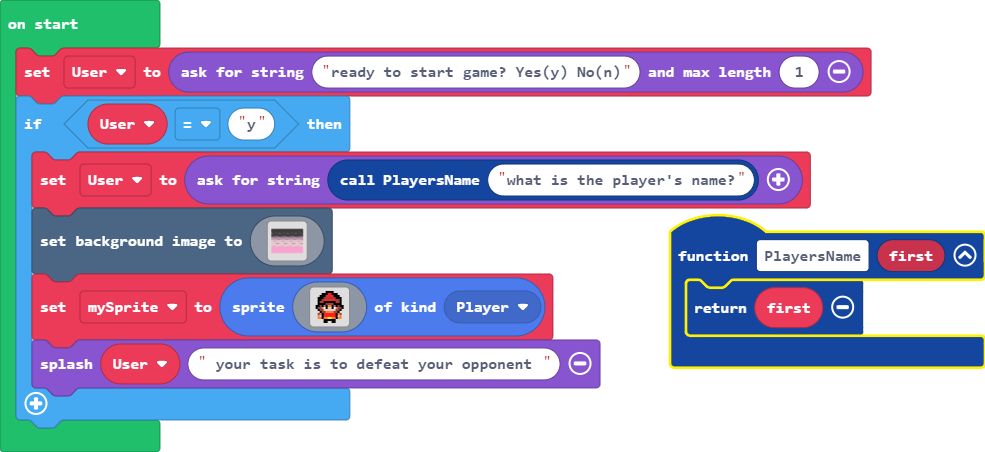
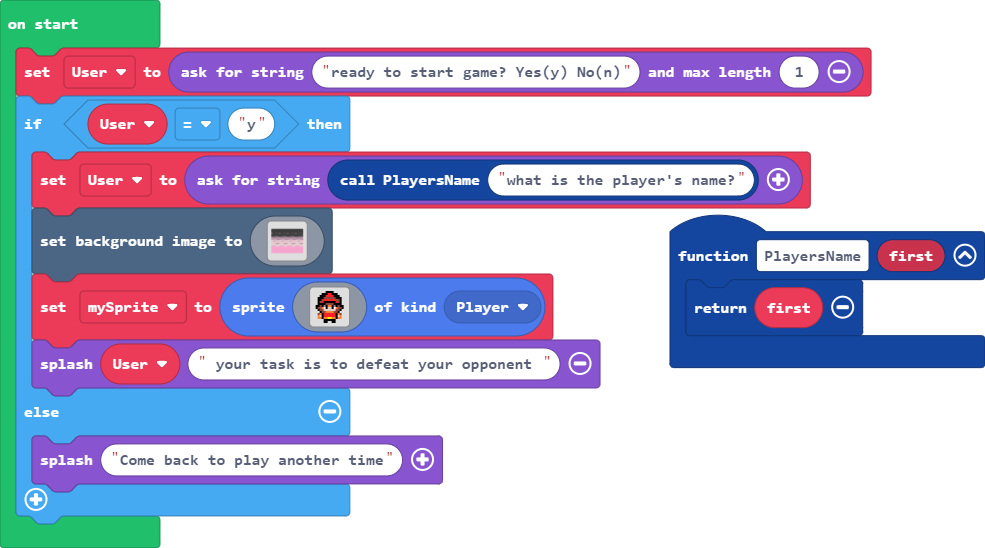
Update main.blocks, main.ts

diff --git a/main.ts b/main.ts
@@ -146,4 +146,6 @@ if (User == "y") {
         . . . . . f f . . f f . . . . . 
         `, SpriteKind.Player)
     game.splash(User, " your task is to defeat your opponent ")
+} else {
+    game.splash("Come back to play another time")
 }
